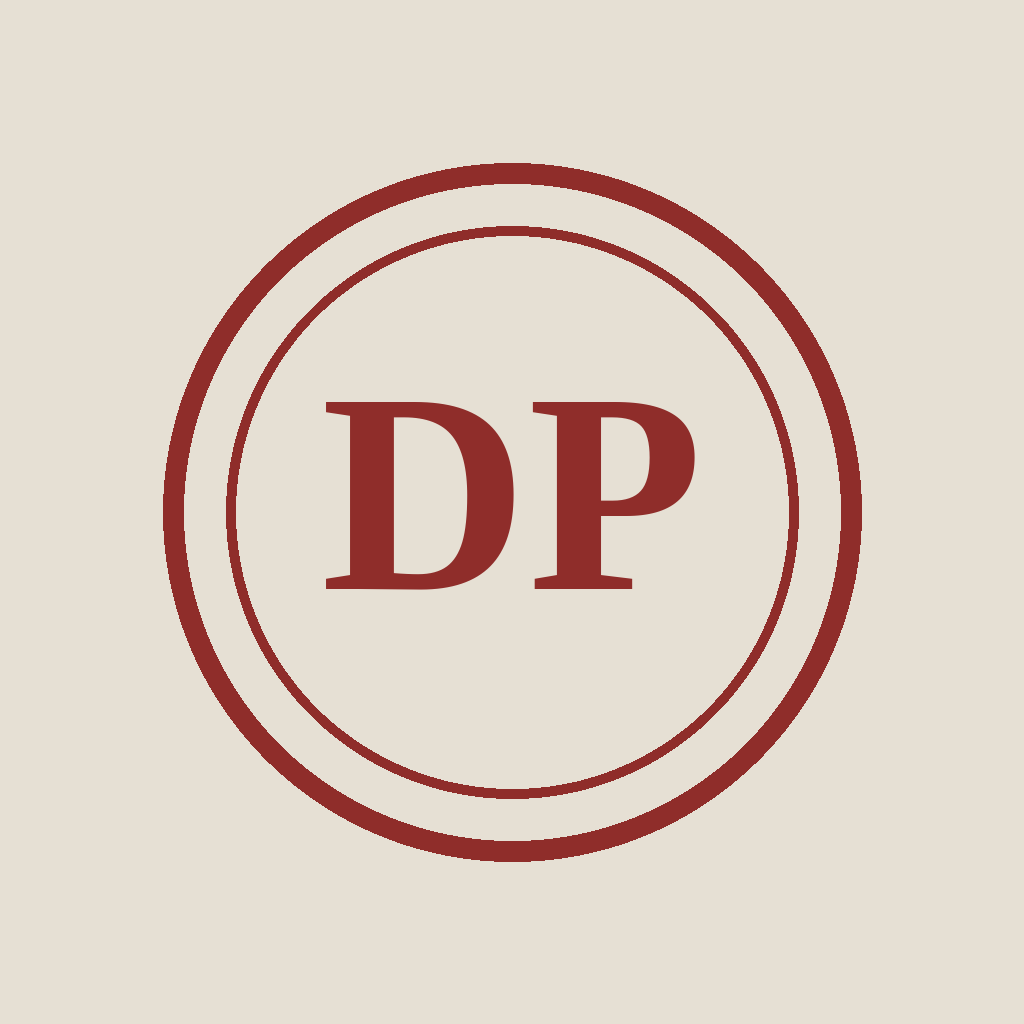
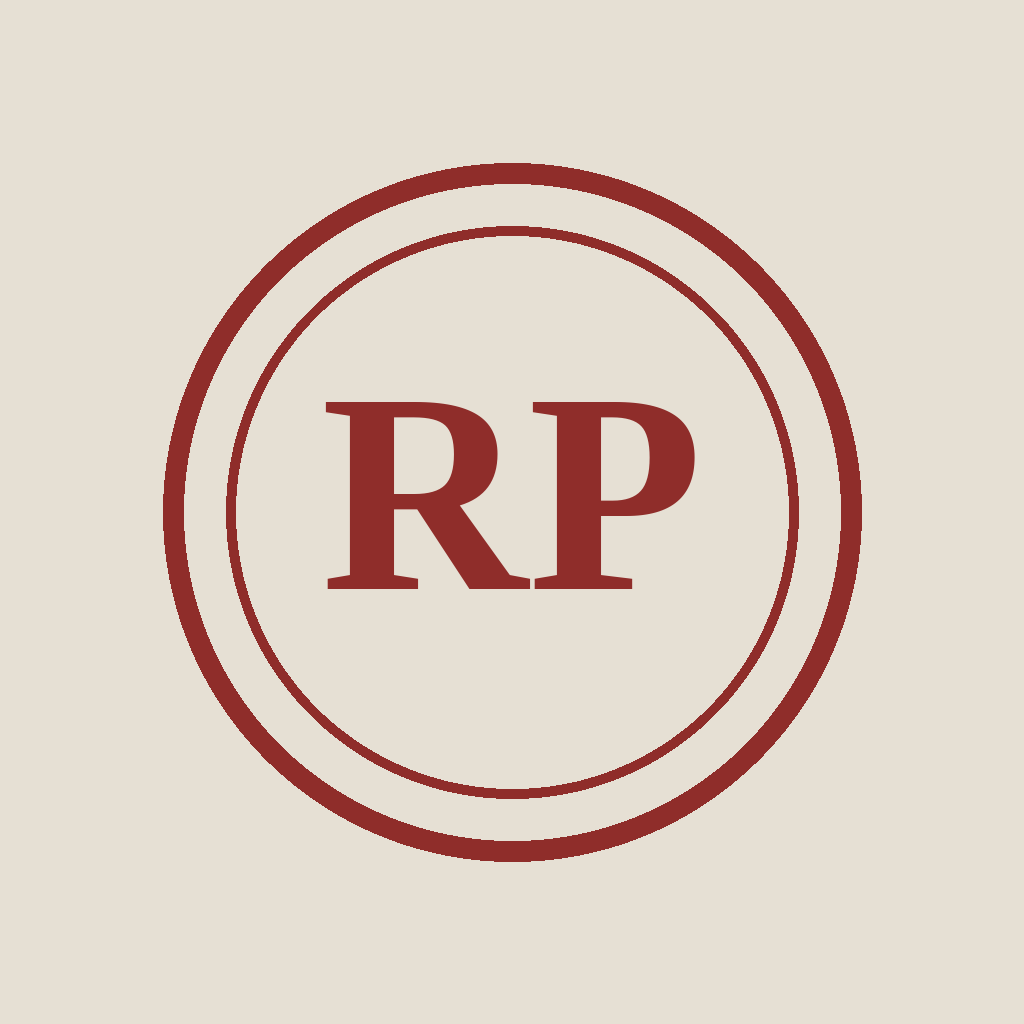
Rename the store app to RentProof.
The App Store name Deposit Proof was already taken. The home screen, icon, PDF, and privacy text now use RentProof, while the registered bundle id stays com.oceanink.depositproof.

Changed region(s): [[0.375, 0.4062, 0.5312, 0.5938], [0.4062, 0.4062, 0.4375, 0.4375]]

diff --git a/apps/deposit-proof/legal/privacy.html b/apps/deposit-proof/legal/privacy.html
@@ -3,7 +3,7 @@
 <head>
   <meta charset="utf-8" />
   <meta name="viewport" content="width=device-width, initial-scale=1" />
-  <title>Deposit Proof privacy</title>
+  <title>RentProof privacy</title>
   <style>
     body { max-width: 640px; margin: 40px auto; padding: 0 20px; font-family: Georgia, serif; color: #1C1915; background: #F7F3EB; }
     h1 { font-weight: normal; }
@@ -13,22 +13,22 @@
 </head>
 <body>
   <p>Oceanink Ltd</p>
-  <h1>Deposit Proof privacy</h1>
+  <h1>RentProof privacy</h1>
   <h2>Who we are</h2>
-  <p>Deposit Proof is published by Oceanink Ltd, 124 City Road, London, United Kingdom, EC1V 2NX. Company number 16684370.</p>
+  <p>RentProof is published by Oceanink Ltd, 124 City Road, London, United Kingdom, EC1V 2NX. Company number 16684370.</p>
   <h2>Photos and reports</h2>
-  <p>Room photos, notes, and the PDF report stay on your device. Deposit Proof does not upload them and does not have an account. If you share or print a PDF, that file is then handled by the app you chose.</p>
+  <p>Room photos, notes, and the PDF report stay on your device. RentProof does not upload them and does not have an account. If you share or print a PDF, that file is then handled by the app you chose.</p>
   <h2>Location</h2>
   <p>When you add a photo, the app may ask for location so it can write a street address under that photo. If you say no, the report uses the home address you typed. Location is not tracked in the background and is not sent to Oceanink.</p>
   <h2>Purchases</h2>
   <p>Lifetime is a one-time purchase through Apple, not a subscription. Apple processes the payment. Oceanink does not receive your card number. The app asks Apple whether this Apple ID already bought Lifetime. There is no separate account to sign into.</p>
   <h2>What we do not do</h2>
-  <p>Deposit Proof has no ads, no third-party analytics, and no tracking across other companies’ apps.</p>
+  <p>RentProof has no ads, no third-party analytics, and no tracking across other companies’ apps.</p>
   <h2>Children</h2>
-  <p>Deposit Proof is a household record. It is not directed at children under 13.</p>
+  <p>RentProof is a household record. It is not directed at children under 13.</p>
   <h2>Not legal advice</h2>
   <p>A report can help you remember the condition of a home. It is not a legal opinion, and it does not guarantee a deposit outcome.</p>
   <h2>Contact</h2>
-  <p>Write to Oceanink through the App Store listing for Deposit Proof. This notice was last updated on 10 November 2026.</p>
+  <p>Write to Oceanink through the App Store listing for RentProof. This notice was last updated on 10 November 2026.</p>
 </body>
 </html>

diff --git a/apps/deposit-proof/src/content/privacy.ts b/apps/deposit-proof/src/content/privacy.ts
@@ -1,11 +1,11 @@
 export const privacySections = [
   {
     title: 'Who we are',
-    body: 'Deposit Proof is published by Oceanink Ltd, 124 City Road, London, United Kingdom, EC1V 2NX. Company number 16684370.',
+    body: 'RentProof is published by Oceanink Ltd, 124 City Road, London, United Kingdom, EC1V 2NX. Company number 16684370.',
   },
   {
     title: 'Photos and reports',
-    body: 'Room photos, notes, and the PDF report stay on your device. Deposit Proof does not upload them and does not have an account. If you share or print a PDF, that file is then handled by the app you chose.',
+    body: 'Room photos, notes, and the PDF report stay on your device. RentProof does not upload them and does not have an account. If you share or print a PDF, that file is then handled by the app you chose.',
   },
   {
     title: 'Location',
@@ -17,11 +17,11 @@ export const privacySections = [
   },
   {
     title: 'What we do not do',
-    body: 'Deposit Proof has no ads, no third-party analytics, and no tracking across other companies’ apps.',
+    body: 'RentProof has no ads, no third-party analytics, and no tracking across other companies’ apps.',
   },
   {
     title: 'Children',
-    body: 'Deposit Proof is a household record. It is not directed at children under 13.',
+    body: 'RentProof is a household record. It is not directed at children under 13.',
   },
   {
     title: 'Not legal advice',
@@ -29,6 +29,6 @@ export const privacySections = [
   },
   {
     title: 'Contact',
-    body: 'Write to Oceanink through the App Store listing for Deposit Proof. This notice was last updated on 10 November 2026.',
+    body: 'Write to Oceanink through the App Store listing for RentProof. This notice was last updated on 10 November 2026.',
   },
 ] as const;

diff --git a/apps/deposit-proof/src/app/index.tsx b/apps/deposit-proof/src/app/index.tsx
@@ -17,10 +17,10 @@ export default function HomeScreen() {
       <View style={styles.mast}>
         <View style={styles.mastCopy}>
           <Text style={styles.brand}>OCEANINK LTD</Text>
-          <Display>Deposit Proof</Display>
+          <Display>RentProof</Display>
           <Body muted>Photograph each room when you move in, and again when you leave. The PDF stays on this phone.</Body>
         </View>
-        <Stamp label="DP" />
+        <Stamp label="RP" />
       </View>
       <View style={styles.row}>
         <Pressable accessibilityRole="button" onPress={() => router.push('/settings')}>

diff --git a/apps/deposit-proof/src/state/entitlements.tsx b/apps/deposit-proof/src/state/entitlements.tsx
@@ -37,10 +37,10 @@ export function EntitlementProvider({ children }: { children: ReactNode }) {
   const [error, setError] = useState<string | null>(null);
   const actions = useRef<PurchaseActions>({
     buy: async () => {
-      throw new Error('Lifetime is sold in the App Store build of Deposit Proof.');
+      throw new Error('Lifetime is sold in the App Store build of RentProof.');
     },
     restore: async () => {
-      throw new Error('Restore works in the App Store build of Deposit Proof.');
+      throw new Error('Restore works in the App Store build of RentProof.');
     },
   });
 

diff --git a/apps/deposit-proof/src/app/settings.tsx b/apps/deposit-proof/src/app/settings.tsx
@@ -20,7 +20,7 @@ export default function SettingsScreen() {
       <Text style={styles.block}>Oceanink Ltd</Text>
       <Text style={styles.meta}>124 City Road, London EC1V 2NX</Text>
       <Text style={styles.meta}>Company number 16684370</Text>
-      <Text style={styles.meta}>Deposit Proof 1.0.0</Text>
+      <Text style={styles.meta}>RentProof 1.0.0</Text>
       <Text style={styles.meta}>One-time purchase. No subscription. No account.</Text>
     </Screen>
   );

diff --git a/apps/deposit-proof/src/lib/report.ts b/apps/deposit-proof/src/lib/report.ts
@@ -90,7 +90,7 @@ export function buildReportHtml(document: ReportDocument, compare: boolean): str
 <body>
   ${watermark}
   <header>
-    <p class="brand">OCEANINK LTD · DEPOSIT PROOF</p>
+    <p class="brand">OCEANINK LTD · RENTPROOF</p>
     <h1>${escapeHtml(document.propertyName)}</h1>
     <p class="address">${escapeHtml(document.propertyAddress)}</p>
     <p class="meta">${escapeHtml(document.title)} · ${escapeHtml(document.generatedLabel)}</p>

diff --git a/apps/deposit-proof/src/app/room/[propertyId]/[kind]/[roomId].tsx b/apps/deposit-proof/src/app/room/[propertyId]/[kind]/[roomId].tsx
@@ -49,7 +49,7 @@ export default function RoomScreen() {
       if (source === 'camera') {
         const permission = await ImagePicker.requestCameraPermissionsAsync();
         if (!permission.granted) {
-          setError('The camera is off for Deposit Proof. You can still add a photo from your library.');
+          setError('The camera is off for RentProof. You can still add a photo from your library.');
           return;
         }
       }

diff --git a/apps/deposit-proof/scripts/make-icons.py b/apps/deposit-proof/scripts/make-icons.py
@@ -1,4 +1,4 @@
-"""Draw the Deposit Proof icon set. Re-run from apps/deposit-proof."""
+"""Draw the RentProof icon set. Re-run from apps/deposit-proof."""
 
 from pathlib import Path
 
@@ -26,7 +26,7 @@ def draw_mark(size: int, ink: tuple[int, int, int, int], background: tuple[int, 
     gap = ring * 3
     inner = [box[0] + gap, box[1] + gap, box[2] - gap, box[3] - gap]
     draw.ellipse(inner, outline=ink, width=max(2, ring // 2))
-    draw.text((size / 2, size / 2 - size * 0.02), "DP", font=font(int(size * 0.28)), fill=ink, anchor="mm")
+    draw.text((size / 2, size / 2 - size * 0.02), "RP", font=font(int(size * 0.28)), fill=ink, anchor="mm")
     return image
 
 

diff --git a/apps/deposit-proof/README.md b/apps/deposit-proof/README.md
@@ -1,4 +1,4 @@
-# Deposit Proof
+# RentProof
 
 A local move-in and move-out record for Oceanink Ltd. Photos and the PDF stay on the phone. There is no account and no China store listing in this version.
 
@@ -25,7 +25,7 @@ Purchases need a development or App Store build (`npx expo run:ios` on a Mac, or
 
 Use the company Apple Developer account, not a personal one. Bundle id: `com.oceanink.depositproof`.
 
-`eas.json` submits with the App Store Connect admin `hannahzhang131@gmail.com`. The account holder `recipeconnects@oceanink.co` is the one who accepts Apple agreements. Production builds are store builds: `npx eas-cli build -p ios --profile production --auto-submit`.
+The App Store name is RentProof. `eas.json` submits with the account holder `recipeconnects@oceanink.co` on team OceanInk ltd (`83K95JM2U2`). The App Store Connect admin `hannahzhang131@gmail.com` can also open the listing. Production builds are store builds: `npx eas-cli build -p ios --profile production`.
 
 In App Store Connect create a Non-Consumable named Lifetime with product id `lifetime`. Leave China mainland off. Host `legal/privacy.html` and paste that URL into the listing. The in-app privacy screen uses the same text.
 

diff --git a/README.md b/README.md
@@ -1,5 +1,5 @@
 # Oceanink
 
-Deposit Proof, the move-in and move-out photo record, lives in `apps/deposit-proof`.
+RentProof, the move-in and move-out photo record, lives in `apps/deposit-proof`.
 
 It is published as Oceanink Ltd. Photos stay on the device. The China mainland store is not part of this version. Strip Meta is planned as a second app and is not started.
